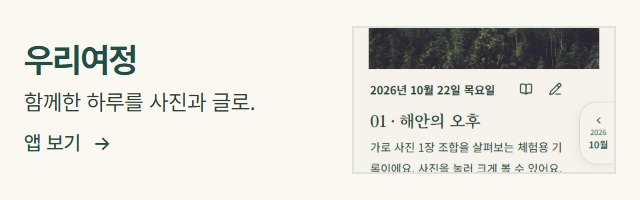
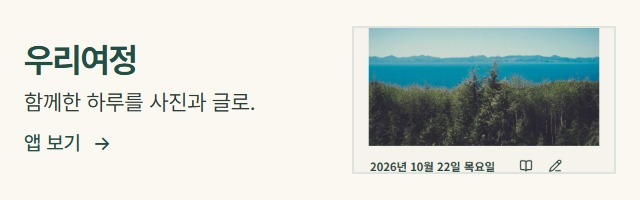
Restore B660M price record and update Woori photo crop

Changed region(s): [[0.5625, 0.12, 0.9688, 0.87]]

diff --git a/used_market_gemini_cli_full_docs/apps/domestic/web-backend/public/changelog.html b/used_market_gemini_cli_full_docs/apps/domestic/web-backend/public/changelog.html
@@ -38,6 +38,13 @@
         <section aria-labelledby="release-2026-11-15">
           <h2 id="release-2026-11-15"><time datetime="2026-11-15">2026.11.15</time></h2>
           <details class="changelog-entry">
+            <summary>B660M DS3H DDR4의 누락된 가격 기록 복원</summary>
+            <figure>
+              <a href="/changelog/2026-11-15-b660m-price-history.png" target="_blank" rel="noopener noreferrer" aria-label="B660M DS3H DDR4 가격 기록 화면 크게 보기"><img src="/changelog/2026-11-15-b660m-price-history.png" alt="GIGABYTE B660M DS3H DDR4의 중고나라 등록가 110,000원과 번개장터 등록가 88,000원, 대표가격 표본 부족 안내가 함께 보이는 실제 운영 화면" loading="lazy" decoding="async" width="1440" height="1000" /></a>
+              <figcaption>모델 연결이 달라 빠졌던 번개장터의 11월 8일 88,000원 기록을 복원했습니다. 기존 중고나라 기록과 함께 사이트별 등록가를 확인할 수 있습니다. 원래 관측 날짜와 가격을 유지하며, 표본이 적을 때는 평균이나 가격선을 만들지 않고 등록가 참고값과 표본 부족 안내를 표시합니다.</figcaption>
+            </figure>
+          </details>
+          <details class="changelog-entry">
             <summary>출시한 서비스 둘러보기</summary>
             <figure>
               <a href="/changelog/2026-11-15-service-promotions.png" target="_blank" rel="noopener noreferrer" aria-label="서비스 순환 광고 화면 크게 보기"><img src="/changelog/2026-11-15-service-promotions.png" alt="운영 검색 화면의 우측과 하단에 서로 다른 서비스를 소개하는 배너. 필터와 매물, 페이지 이동은 기존 위치에 표시한다" loading="lazy" decoding="async" width="1440" height="1000" /></a>

diff --git a/used_market_gemini_cli_full_docs/apps/domestic/web-backend/public/price-analysis.html b/used_market_gemini_cli_full_docs/apps/domestic/web-backend/public/price-analysis.html
@@ -8,8 +8,8 @@
   <link rel="icon" href="/assets/mark.svg" type="image/svg+xml">
   <link rel="stylesheet" href="/styles.css?v=pc-tools-v1"><link rel="stylesheet" href="/pc-tools.css?v=price-clarity-v1"><link rel="stylesheet" href="/ui-concept-a.css?v=aligned-shell-v1">
   <link rel="stylesheet" href="/pc-workspace.css?v=price-axis-right-v1">
-  <link rel="stylesheet" href="/adfit-layout.css?v=house-rotation-v1-scenes3">
-    <link rel="stylesheet" href="/promotions/train-gallery/banner.css?v=house-rotation-v1-scenes3">
+  <link rel="stylesheet" href="/adfit-layout.css?v=house-rotation-v1-scenes3-photo">
+    <link rel="stylesheet" href="/promotions/train-gallery/banner.css?v=house-rotation-v1-scenes3-photo">
   <link rel="stylesheet" href="/site-header-links.css?v=1">
   <link rel="stylesheet" href="/mobile-tools.css?v=source-toggle-v2">
   <link rel="stylesheet" href="/mobile-model-picker.css?v=tab-picker-v1">
@@ -138,6 +138,6 @@
     <nav class="tools-mobile-pages" aria-label="모바일 주 메뉴"><a href="/">검색</a><a href="/computer-builder.html">컴퓨터 시세</a></nav>
     <nav class="tools-mobile-policy" aria-label="이용 및 정책"><a href="/changelog.html">패치 내역</a><a href="/support.html">후원</a><a href="/contact.html">문의</a><a href="/guide.html">이용 안내</a><a href="/privacy.html">개인정보처리방침</a><a href="/terms.html">이용약관</a></nav>
   </dialog>
-  <script type="module" src="/pc-tools.js?v=house-rotation-v1-scenes3"></script>
+  <script type="module" src="/pc-tools.js?v=house-rotation-v1-scenes3-photo"></script>
 </body>
 </html>

diff --git a/used_market_gemini_cli_full_docs/apps/domestic/web-backend/public/computer-builder.html b/used_market_gemini_cli_full_docs/apps/domestic/web-backend/public/computer-builder.html
@@ -8,8 +8,8 @@
   <link rel="icon" href="/assets/mark.svg" type="image/svg+xml">
   <link rel="stylesheet" href="/styles.css?v=pc-tools-v1"><link rel="stylesheet" href="/pc-tools.css?v=parts-ux-v6"><link rel="stylesheet" href="/ui-concept-a.css?v=aligned-shell-v1">
   <link rel="stylesheet" href="/builder-toolbar.css?v=price-clarity-v1">
-  <link rel="stylesheet" href="/adfit-layout.css?v=house-rotation-v1-scenes3">
-    <link rel="stylesheet" href="/promotions/train-gallery/banner.css?v=house-rotation-v1-scenes3">
+  <link rel="stylesheet" href="/adfit-layout.css?v=house-rotation-v1-scenes3-photo">
+    <link rel="stylesheet" href="/promotions/train-gallery/banner.css?v=house-rotation-v1-scenes3-photo">
   <link rel="stylesheet" href="/site-header-links.css?v=1">
   <link rel="stylesheet" href="/mobile-tools.css?v=sold-joongna-v1">
   <link rel="stylesheet" href="/mobile-model-picker.css?v=tab-picker-v1">
@@ -97,6 +97,6 @@
     <nav class="tools-mobile-pages" aria-label="모바일 주 메뉴"><a href="/">매물 찾기</a><a href="/computer-builder.html">컴퓨터 시세</a></nav>
     <nav class="tools-mobile-policy" aria-label="이용 및 정책"><a href="/changelog.html">패치 내역</a><a href="/support.html">후원</a><a href="/contact.html">문의</a><a href="/guide.html">이용 안내</a><a href="/privacy.html">개인정보처리방침</a><a href="/terms.html">이용약관</a></nav>
   </dialog>
-  <script type="module" src="/pc-tools.js?v=house-rotation-v1-scenes3"></script>
+  <script type="module" src="/pc-tools.js?v=house-rotation-v1-scenes3-photo"></script>
 </body>
 </html>

diff --git a/used_market_gemini_cli_full_docs/apps/domestic/web-backend/public/index.html b/used_market_gemini_cli_full_docs/apps/domestic/web-backend/public/index.html
@@ -35,8 +35,8 @@
     <link rel="stylesheet" href="/pc-tools.css?v=6" />
     <link rel="stylesheet" href="/ui-concept-a.css?v=adfit-all-v3" />
     <link rel="stylesheet" href="/search-controls.css?v=model-label-v1" />
-    <link rel="stylesheet" href="/adfit-layout.css?v=house-rotation-v1-scenes3">
-    <link rel="stylesheet" href="/promotions/train-gallery/banner.css?v=house-rotation-v1-scenes3">
+    <link rel="stylesheet" href="/adfit-layout.css?v=house-rotation-v1-scenes3-photo">
+    <link rel="stylesheet" href="/promotions/train-gallery/banner.css?v=house-rotation-v1-scenes3-photo">
     <link rel="stylesheet" href="/site-header-links.css?v=1">
     <link rel="stylesheet" href="/mobile-search.css?v=listing-note-v1">
     <link rel="stylesheet" href="/listing-workspace.css?v=listing-note-v1">
@@ -245,6 +245,6 @@
       </nav>
     </footer>
 
-    <script type="module" src="/app.js?v=house-rotation-v1-scenes3"></script>
+    <script type="module" src="/app.js?v=house-rotation-v1-scenes3-photo"></script>
   </body>
 </html>

diff --git a/used_market_gemini_cli_full_docs/apps/domestic/web-backend/public/pc-tools.js b/used_market_gemini_cli_full_docs/apps/domestic/web-backend/public/pc-tools.js
@@ -1,7 +1,7 @@
 import { SERIES, idOf, nameOf, naturalCompare, money, metricValue, soldMeanValue, metricPresentation, listedPriceRange, statsUnavailable, priceRecordIssue, analysisSelectionUrl, groupProducts, scopedStats, sourceStats, priceDateRange, shiftDate, modelPageItems, buildTotals, compactBuild, compatibility, validateBuild, dailySeries, percentChange, buildAnalysisSeries } from './pc-tools-core.mjs?v=shared-price-v2';
 import { readJson, createPriceStore } from './pc-tools-data.mjs?v=picker-fast-v3';
 import { drawMarketChart as drawChart } from './pc-market-chart.mjs?v=compact-chart-v2';
-import { createPromotionSlots } from './promotions/rotation.js?v=house-rotation-v1-scenes3';
+import { createPromotionSlots } from './promotions/rotation.js?v=house-rotation-v1-scenes3-photo';
 import { toolBrand, toolFilterSchema, toolFacetValues, toolFacetLabel, filterToolProducts, visibleSelection, toolScopeNote } from './pc-tools-catalog.mjs?v=parts-ux-v4';
 import { priceWindowUrl } from './price-window.mjs?v=compact-chart-v2';
 

diff --git a/used_market_gemini_cli_full_docs/apps/domestic/web-backend/public/promotions/rotation.js b/used_market_gemini_cli_full_docs/apps/domestic/web-backend/public/promotions/rotation.js
@@ -110,7 +110,7 @@ export function createPromotionSlots(roots) {
   const render = view => {
     const product = productFor(view.placement, index);
     const { url, label } = destinationFor(product);
-    const art = format => `/promotions/house/${product.id}-${format}.jpg?v=20261115-scenes3`;
+    const art = format => `/promotions/house/${product.id}-${format}.jpg?v=20261115-scenes3-photo`;
     view.link.href = url;
     view.link.setAttribute('aria-label', `${product.name} — ${product.message} ${label} (새 창)`);
     if (view.source) view.source.srcset = art('strip');

diff --git a/used_market_gemini_cli_full_docs/apps/domestic/web-backend/public/app.js b/used_market_gemini_cli_full_docs/apps/domestic/web-backend/public/app.js
@@ -1,4 +1,4 @@
-import { createPromotionSlots } from "./promotions/rotation.js?v=house-rotation-v1-scenes3";
+import { createPromotionSlots } from "./promotions/rotation.js?v=house-rotation-v1-scenes3-photo";
 import { toolQueryMatches } from "./pc-tools-catalog.mjs?v=parts-ux-v4";
 import { readJsonResponse } from "./read-json.mjs?v=lookup-recovery-v1";
 import { createPriceStore } from "./pc-tools-data.mjs?v=domestic-danawa-v1";

diff --git a/used_market_gemini_cli_full_docs/apps/domestic/docs/daily_history/2026-11-15.md b/used_market_gemini_cli_full_docs/apps/domestic/docs/daily_history/2026-11-15.md
@@ -1,4 +1,4 @@
-# 2026-11-15 광고 교체·Android AdMob 작업
+# 2026-11-15 광고 교체·Android AdMob·분류 기록 교정
 
 ## 자사 제품 순환 광고 — 운영475 완료
 
@@ -114,3 +114,23 @@
[3 lines of base64/hex data omitted]
+
+## USED PICK 분류·누락 기록 교정 — B660M 통계 게시 완료
+
+- 사용자 요청은 USED PICK의 실제 문제 수정이다. EMOTOWN·COTEEPET은 점검·수정 범위에서 제외했다. `essential-guardrails-only`와 `used-pick-sample-preserving-filters`를 적용했다. native 명령·Chrome을 사용하므로 Chat On Steroids companion을 요구하지 않았다. Sol xhigh의 독립 소스 검토는 읽기 전용이었으며 primary가 실제 DB·공개 응답·화면을 검증했다.
+- PM9A3 7.68TB는11월14일의 범위 교정이 이미 운영에 반영돼 있었다. 실제 PC1440/모바일390에서 삼성4~8TB M.2 조회·새로고침에 PM9A3가 없고 정상9100 PRO M.2 8TB2건이 남는 것을 확인했다. ‘기타·불명확’에서는 PM9A3를 계속 찾을 수 있다. Samsung 공식 규격 자료와 대조했지만 매물의 실물 형태는 확인되지 않았으므로 U.2 등으로 단정하지 않았다. 같은 후보를 이유로 새 기업용 SSD 제외나 전체 재분류를 하지 않았다.
+- B660M은 현재 기록 전체가 없는 상태가 아니라, 번개장터88,000원 원본만 빠진 실제 불일치였다. `bunjang:446744332`의 snapshot2262690은11월8일02:11:33Z에 수집된 단품·KRW·88,000원이다. 현재 목록은 정확한 모델인데 활성 n19 정규화5985080과 자식1개가 예전 칩셋 ID 및 `EXACT_MODEL_REQUIRED`를 유지해 통계에서 제외됐다. 현재 분류기는 정확한 모델을 식별하며, 같은 버전의 기존 정규화는 관측 때 자동 덮어쓰지 않아 과거 행 교정이 필요했다.
[1 lines of base64/hex data omitted]
+- 기존 `pc:repair-stats`의 `PRODUCT_IDENTITY` 사유와 정확한 모델의 `KR_C2C_USED`/`KR_DOMESTIC_USED`, `USED_WORKING`, `KRW`,30일 범위2개만 계산했다. 표본1→2, 등록가88,000~110,000원, 대표 평균·중앙값은 계속 null이다. 나머지6,274범위와 실제 as-of `2026-11-14T18:01:00.741Z`를 보존했다. 전체 과거 재계산·일일 갱신 재실행·날짜를 새 수집으로 변경한 작업은 없다.
[1 lines of base64/hex data omitted]
+- 공개 일반 URL의 두 시장/30일 요약과60일 일일 기록을 확인했다.11월8~9일88,000원,11월10일 두 가격,11월11~14일 기존110,000원이 원래 관측 근거에 맞게 제공된다. 같은 매물이 여러 날짜에 나타나는 것을 새 고유 표본으로 합산하지 않는다. 실제 Chrome1440×1000·390×844에서 두 사이트의 등록가·관측일과 ‘대표가격 표본 부족’ 안내, 비교 전환을 확인했다. 표본2건으로 대표 가격선을 새로 만들지 않는다. 페이지 오류0·가로 넘침0. 실제 운영 캡처를 `public/changelog/2026-11-15-b660m-price-history.png`로 공개 패치에 연결했다.
+- 잠금 해제 후 maintenance=false·scheduler_enabled=true와 정기 scheduler 재개를 확인했다. 운영 DB 복사0. 실제 성공·공개 검증 후 임시 전체 통계 JSON2개397,573,312바이트만 정확한 경로에서 삭제했다. 작은 classification plan과 완료 영수증/변경2범위는 기존 staging에 보존하며 원본DB·이전 공개 통계·다른 실행은 삭제하지 않았다. ignored `tmp/pm9a3-b660m-20261115/`에 실행·활성화·공개 응답·PC/모바일 화면·공간 회수 증거가 있다.
+- 변경 직전 점검: 기존 정확한 대상·통계 무결성·복구 검사를 재사용했고 maintenance 실패는 기존 작업의 단계 순서만 바로잡았다. 관리 포인트·회귀 테스트·하네스·스캐너·감시·승인 단계 추가0/제거0(순증0). 독립 검토도 추가/제거0을 확인했다.
+
+## 우리여정 사진 크롭·B660M 패치 기록 — 운영486
+
[3 lines of base64/hex data omitted]
+- 공개 두 도메인 스모크와 세 우리여정 파일의 실제 SHA256 확인 통과. native Chrome PC1440×1000/모바일390×844의 자연 순환에서 새 바다 사진 wide1920×280·strip640×200을 실제 표시했다. 기존 Play href/접근성 이름·멈춤 버튼, B660M 두 사이트 등록가·표본 부족 안내를 확인했다. 양쪽 메뉴→패치 내역→새 항목 펼침→실제 이미지 decode1440×1000→원본 새 창을 통과했고 페이지 오류0·가로 넘침0이다. 실제 캡처와 `photo-b660m-ui.json`, upload/deploy 및 버전 검증 영수증은 기존 ignored `tmp/house-rotation-20261114/`에 보존했다. 브라우저는 종료했다.
+- 최종 전체 `npm test` exit0 및 기존 `monetization-trust-contract` exit0. Windows에서 Linux archive 계약은 기존대로 SKIPPED이며 이번 변경은 저장소 패키징/압축 구현을 바꾸지 않았다. 새 회귀 테스트·하네스·스캐너·예약 감시·승인 단계·상시 관리 상태 추가0/제거0(순증0). 비공개 응답·복구 파일은 Git 대상에서 제외했다.

diff --git a/used_market_gemini_cli_full_docs/apps/domestic/docs/daily_history/README.md b/used_market_gemini_cli_full_docs/apps/domestic/docs/daily_history/README.md
@@ -1,6 +1,6 @@
 # 변경 기록
 
-- [2026-11-15 — 웹 운영 서비스4개·앱 링크482배포, Android0.1.3 AdMob 연결·APK 공개·Play 심사 접수, 동의 메시지 게시·앱 인증 미완료](2026-11-15.md)
+- [2026-11-15 — B660M 누락 기록 범위 복원·PM9A3 운영 재검증, 제품 사용 장면485·우리여정 사진 크롭/패치 기록486배포, Android0.1.3 APK 공개·Play 심사 접수·AdMob 인증 대기](2026-11-15.md)
 
 사용자에게 보이는 변경은 [패치 내역](../../web-backend/public/changelog.html)에 실제 화면과 짧은 설명으로 기록합니다. 이 폴더에는 변경 이유, 구현 범위, 검증과 실제 배포 상태를 남깁니다. 날짜는 한국 시간을 사용합니다.
 
